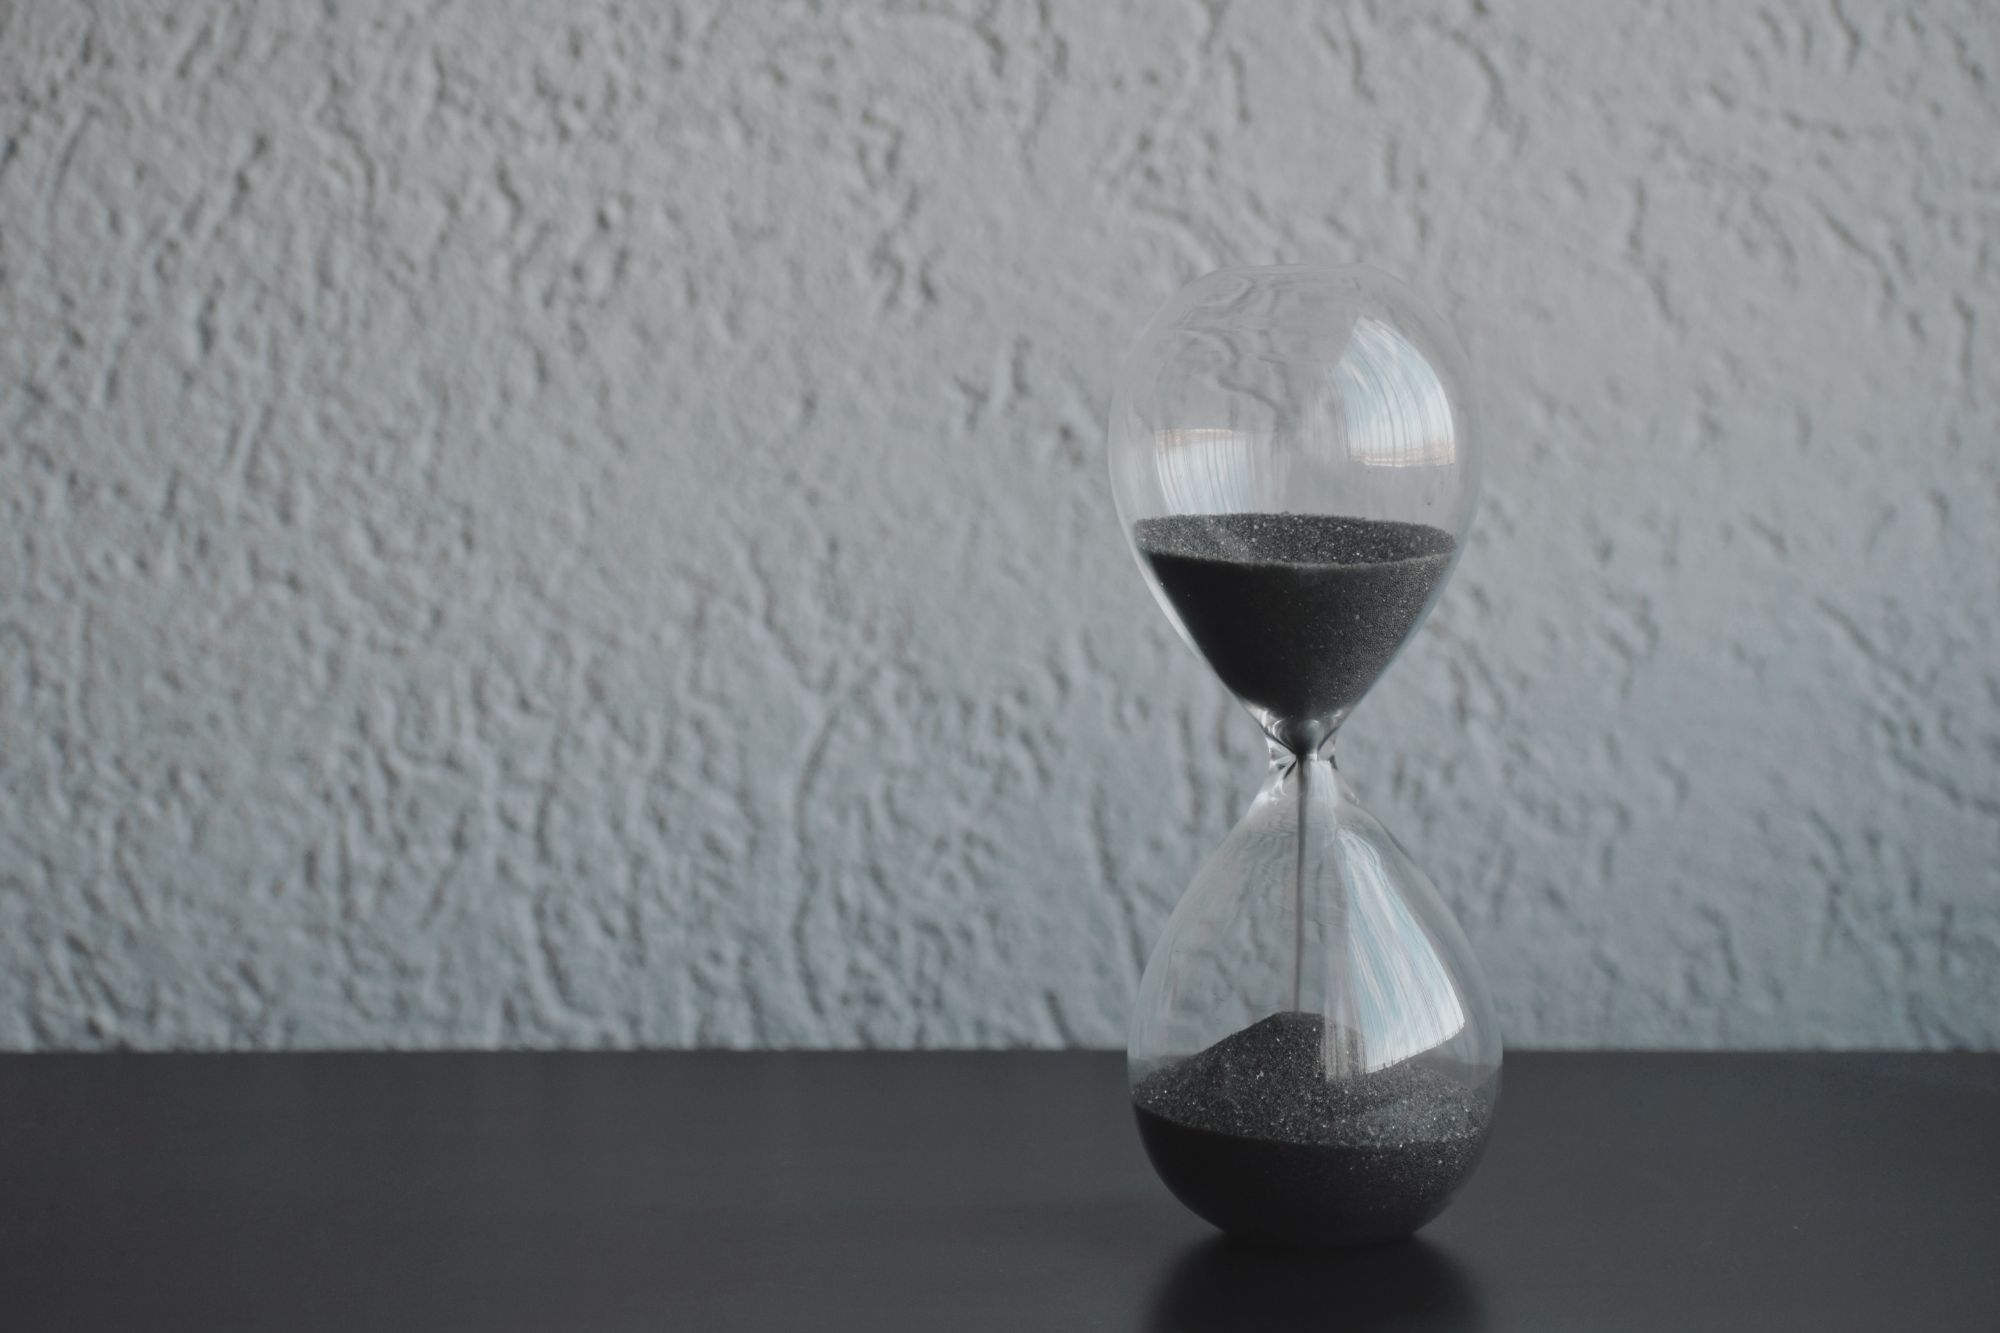
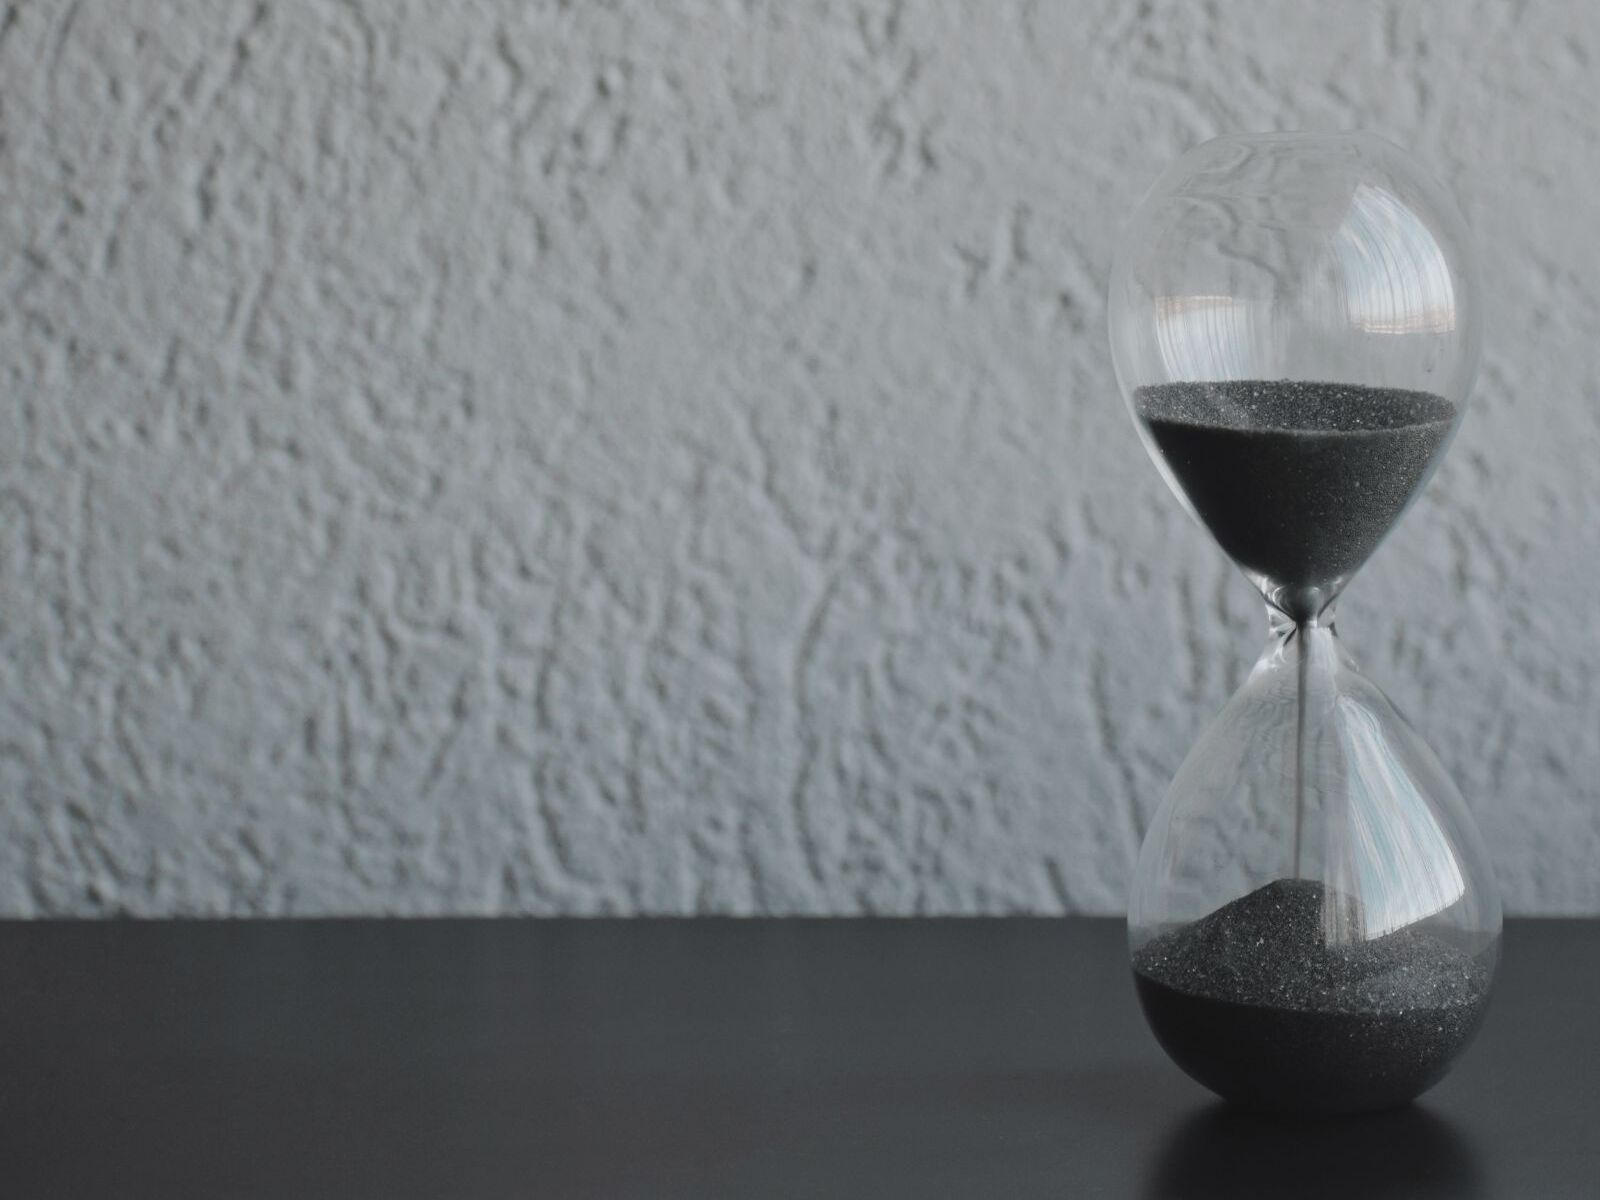
crop images to same aspect ratio

diff --git a/index.html b/index.html
@@ -92,7 +92,7 @@
               <a href="projects.html"
                 ><img
                   class="img-fluid image"
-                  src="assets/img/tech/timetable.jpg"
+                  src="assets/img/tech/deals.png"
                   alt="timetable"
               /></a>
             </div>
